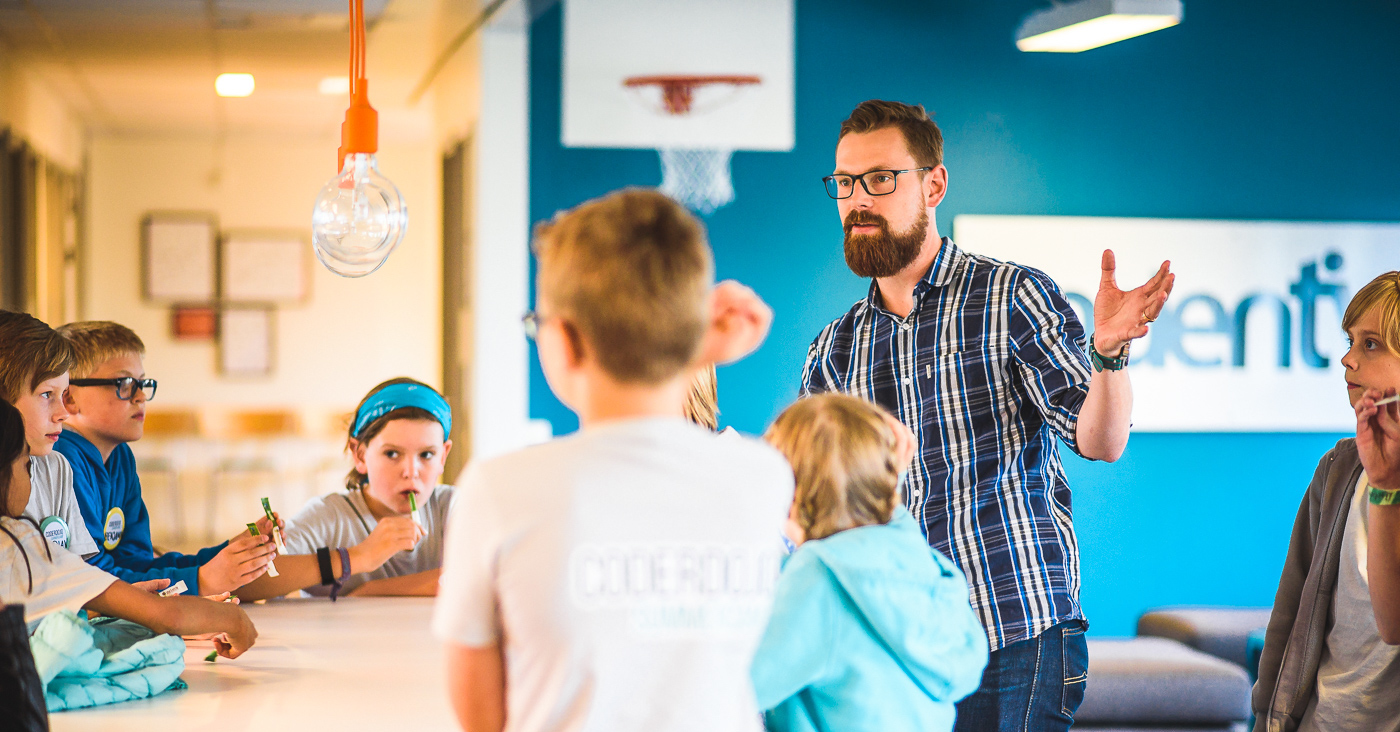
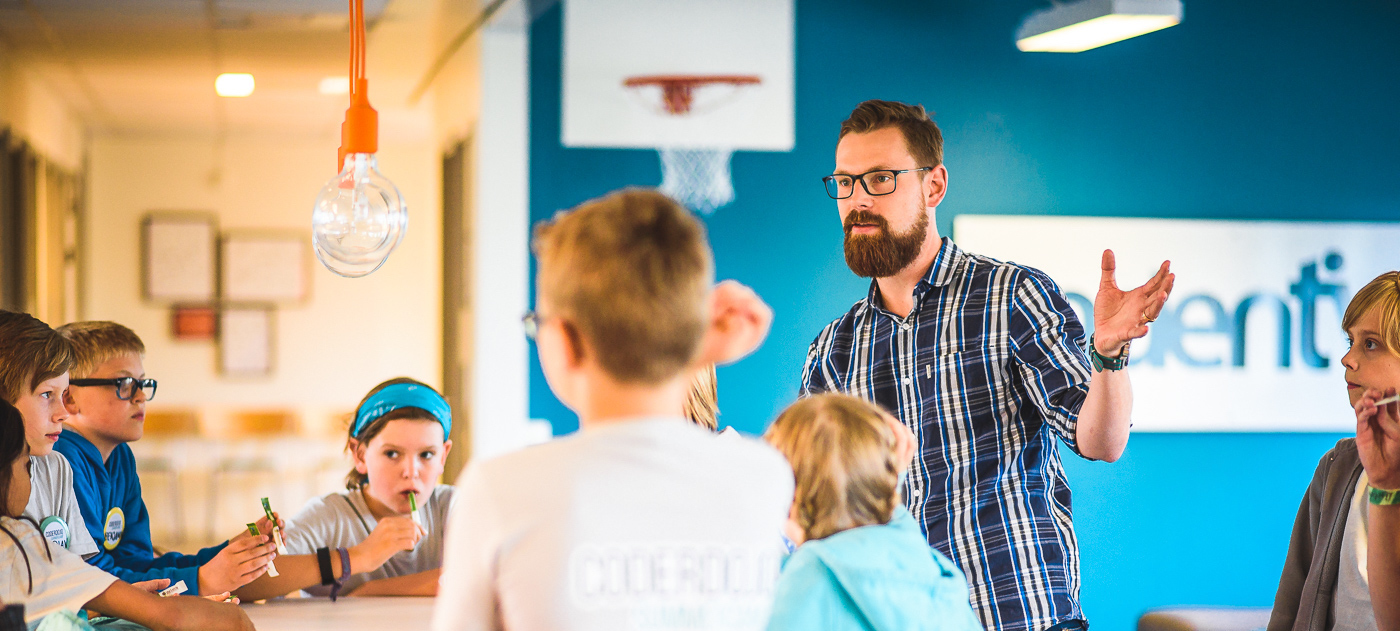
bättre coachbild?

diff --git a/blicoach.html b/blicoach.html
@@ -12,7 +12,7 @@
 	</header>
 
 	<section id="main">
-		<div style="background-image: url(img/coach.jpg);" id="cover">	</div>
+		<div style="background-image: url(img/hjalp.jpg);" id="cover">	</div>
 		
 		<section id="intro">
 			<p>
